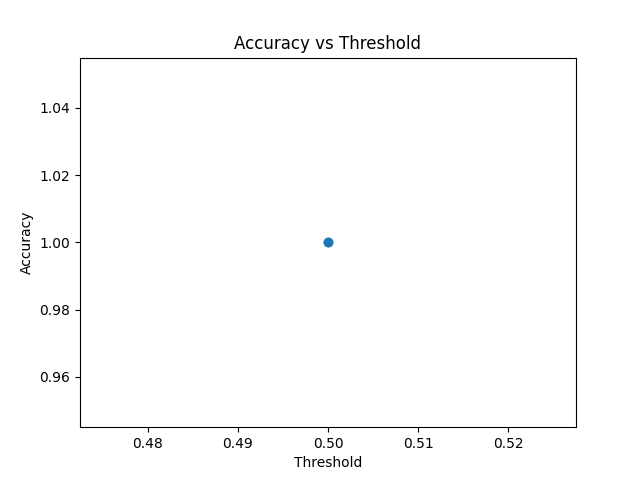
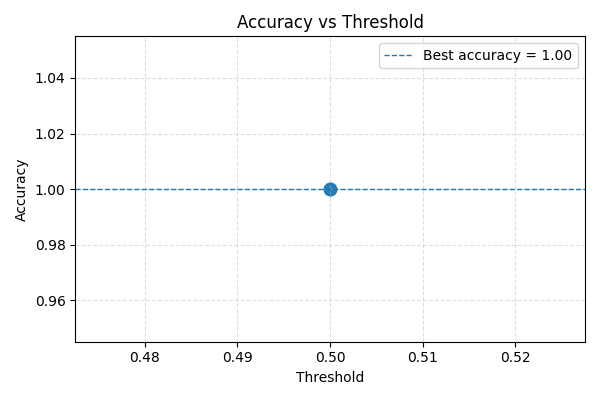
stage5: add experiment analysis and visualization

diff --git a/src/analyze_results.py b/src/analyze_results.py
@@ -2,33 +2,32 @@ import csv
 from pathlib import Path
 import matplotlib.pyplot as plt
 
-CSV_PATH = Path("experiments.csv")
-OUTPUT_DIR = Path("analysis")
-PLOT_PATH = OUTPUT_DIR / "accuracy_vs_threshold.png"
+EXPERIMENTS_CSV = Path("experiments.csv")
+ANALYSIS_DIR = Path("analysis")
+PLOT_PATH = ANALYSIS_DIR / "accuracy_vs_threshold.png"
 
 
 def main():
-    rows = []
+    ANALYSIS_DIR.mkdir(exist_ok=True)
 
-    with open(CSV_PATH) as f:
+    rows = []
+    with open(EXPERIMENTS_CSV, newline="") as f:
         reader = csv.DictReader(f)
         for row in reader:
-            # Skip rows without threshold
-            if not row.get("threshold"):
-                continue
-
-            rows.append({
-                "run_id": row["run_id"],
-                "accuracy": float(row["accuracy"]),
-                "threshold": float(row["threshold"]),
-            })
+            if row.get("threshold"):
+                rows.append({
+                    "run_id": row["run_id"],
+                    "accuracy": float(row["accuracy"]),
+                    "threshold": float(row["threshold"])
+                })
 
     if not rows:
         print("No runs with threshold found.")
         return
 
-    
     accuracies = [r["accuracy"] for r in rows]
+    thresholds = [r["threshold"] for r in rows]
+
     best = max(rows, key=lambda r: r["accuracy"])
     worst = min(rows, key=lambda r: r["accuracy"])
     avg_accuracy = sum(accuracies) / len(accuracies)
@@ -37,17 +36,41 @@ def main():
     print("-" * 20)
     print(f"Total analyzed runs: {len(rows)}")
     print(f"Average accuracy: {avg_accuracy:.4f}")
-    print(f"Best run: {best['run_id']} (accuracy={best['accuracy']}, threshold={best['threshold']})")
-    print(f"Worst run: {worst['run_id']} (accuracy={worst['accuracy']}, threshold={worst['threshold']})")
+    print(
+        f"Best run: {best['run_id']} "
+        f"(accuracy={best['accuracy']}, threshold={best['threshold']})"
+    )
+    print(
+        f"Worst run: {worst['run_id']} "
+        f"(accuracy={worst['accuracy']}, threshold={worst['threshold']})"
+    )
 
-    thresholds = [r["threshold"] for r in rows]
-    accuracies = [r["accuracy"] for r in rows]
+    # -------- Plot --------
+    plt.figure(figsize=(6, 4))
 
-    plt.figure()
-    plt.scatter(thresholds, accuracies)
+    plt.scatter(
+        thresholds,
+        accuracies,
+        s=80,
+        alpha=0.8
+    )
+
+    best_accuracy = max(accuracies)
+    plt.axhline(
+        y=best_accuracy,
+        linestyle="--",
+        linewidth=1,
+        label=f"Best accuracy = {best_accuracy:.2f}"
+    )
+
     plt.xlabel("Threshold")
     plt.ylabel("Accuracy")
     plt.title("Accuracy vs Threshold")
+
+    plt.grid(True, linestyle="--", alpha=0.4)
+    plt.legend()
+    plt.tight_layout()
+
     plt.savefig(PLOT_PATH)
     plt.close()
 
